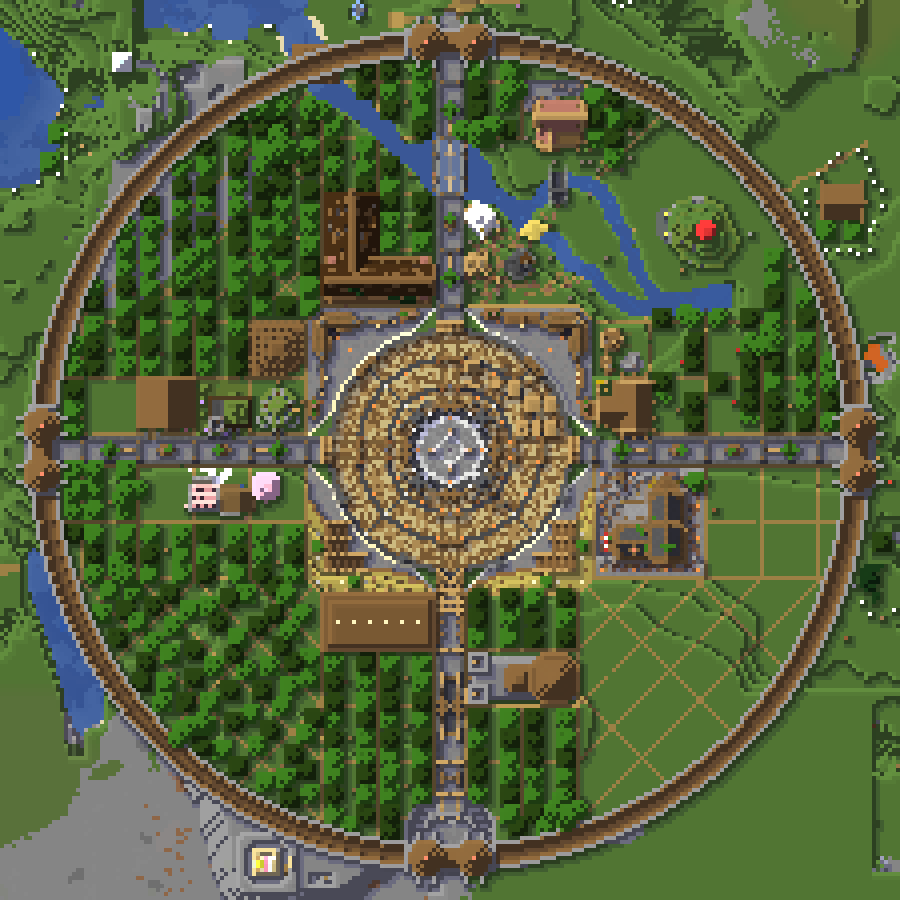
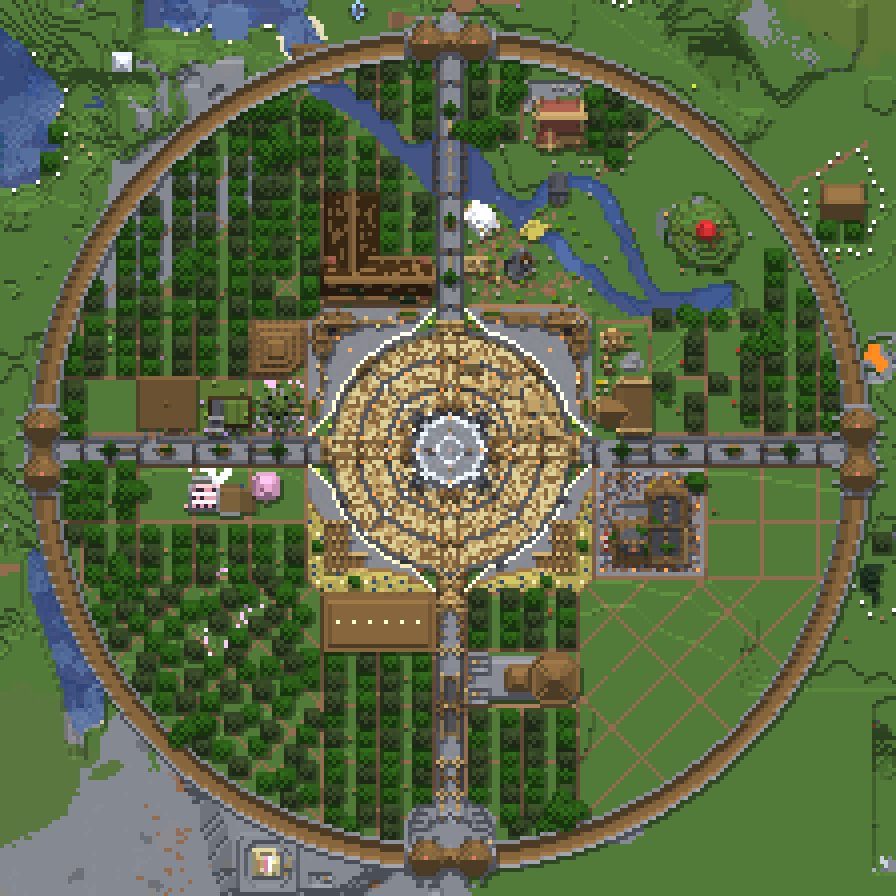
Данные введены

diff --git a/src/main/java/CadastralController.java b/src/main/java/CadastralController.java
@@ -100,7 +100,7 @@ public class CadastralController {
         html.append("  position: relative;");
         html.append("  background-image: url('/map.webp');");
         html.append("  background-size: contain;");
-        html.append("  background-position: 2px 2px;");
+        html.append("  background-position: 0px 0px;");
         html.append("  background-repeat: no-repeat;");
         html.append("  width: 100%;");
         html.append("  max-width: 896px;");
@@ -113,7 +113,7 @@ public class CadastralController {
         html.append("}");
         html.append(".grid {");
         html.append("  display: grid;");
-        html.append("  grid-template-columns: repeat(14, 64px);");
+        html.append("  grid-template-columns: repeat(14 , 64px);");
         html.append("  gap: 0px;");
         html.append("  height: 100%;");
         html.append("}");
@@ -123,7 +123,7 @@ public class CadastralController {
         html.append("  display: flex;");
         html.append("  justify-content: center;");
         html.append("  align-items: center;");
-        html.append("  opacity: 0.7;");
+        html.append("  opacity: 0.6;");//добавить ползунок
         html.append("  transition: all 0.2s ease;");
         html.append("  border-radius: 0px;");
         html.append("  position: relative;");
@@ -277,6 +277,14 @@ public class CadastralController {
         html.append(".btn-edit:hover {");
         html.append("    background-color: #e67e22;");
         html.append("}");
+        html.append(".property-image {");
+        html.append("    width: 100%;");
+        html.append("    max-height: 1000px;");
+        html.append("    object-fit: cover;");
+        html.append("    border-radius: 8px;");
+        html.append("    margin-bottom: 20px;");
+        html.append("    box-shadow: 0 2px 5px rgba(0,0,0,0.1);");
+        html.append("}");
         html.append("form {");
         html.append("    display: inline-block;");
         html.append("    margin-left: 10px;");
@@ -319,6 +327,11 @@ public class CadastralController {
         html.append("<div class='property-title'>Статус</div>");
         html.append("<div class='property-value'>" + map.get(id - 1).getStatus() + "</div>");
         html.append("</div>");
+        if (!map.get(id-1).getPicture().equals("Картинка") && !map.get(id-1).getPicture().equals("-")) {
+            html.append("<div class='property'>");
+            html.append("<img src='" + map.get(id-1).getPicture() + "' alt='Изображение участка " + id + "' class='property-image'>");
+            html.append("</div>");
+        }
 
         html.append("<div class='property'>");
         html.append("<a href='/map/area/" + id + "/send_application' class='btn btn-apply'>Оставить заявку</a>");
